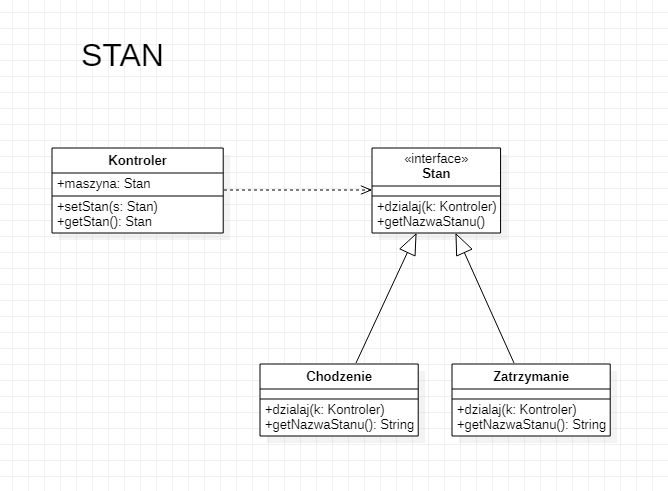
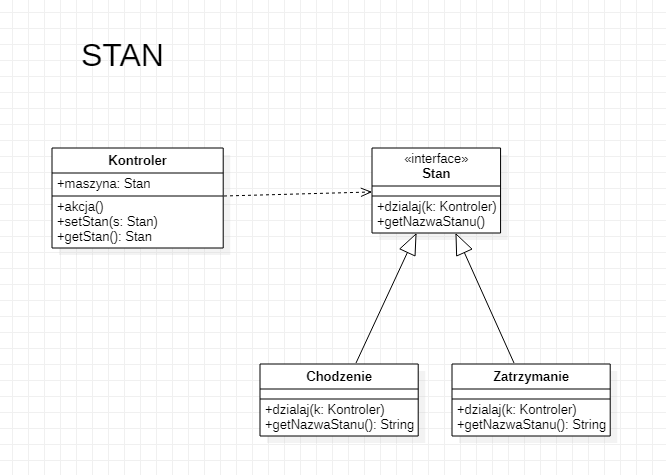
Stan

diff --git a/23 DAYS CHALLANGE WZORCOWY/Stan/Stan/src/Main.java b/23 DAYS CHALLANGE WZORCOWY/Stan/Stan/src/Main.java
@@ -3,14 +3,16 @@ public class Main {
         Kontroler kontroler = new Kontroler();
 
         Chodzenie chodzenie = new Chodzenie();
-        chodzenie.dzialaj(kontroler);
+        kontroler.setStan(chodzenie);
         System.out.println(kontroler.getStan().getNazwaStanu());
+        kontroler.akcja();
 
         System.out.println();
 
         Zatrzymanie zatrzymanie = new Zatrzymanie();
-        zatrzymanie.dzialaj(kontroler);
+        kontroler.setStan(zatrzymanie);
         System.out.println(kontroler.getStan().getNazwaStanu());
+        kontroler.akcja();
     }
 }
 

diff --git a/23 DAYS CHALLANGE WZORCOWY/Stan/Stan/src/Zatrzymanie.java b/23 DAYS CHALLANGE WZORCOWY/Stan/Stan/src/Zatrzymanie.java
@@ -1,7 +1,6 @@
 public class Zatrzymanie implements Stan {
-    public void dzialaj(Kontroler k) {
-        k.setStan(this);
-        System.out.println("Gracz jest w stanie: ZATRZYMANIE SIE");
+    public void dzialaj() {
+        System.out.println("Gracz sie zatrzymal, nic sie nie dzieje.");
     }
 
     public String getNazwaStanu() {

diff --git a/23 DAYS CHALLANGE WZORCOWY/Stan/Stan/src/Chodzenie.java b/23 DAYS CHALLANGE WZORCOWY/Stan/Stan/src/Chodzenie.java
@@ -1,7 +1,6 @@
 public class Chodzenie implements Stan {
-    public void dzialaj(Kontroler k) {
-        k.setStan(this);
-        System.out.println("Gracz jest w stanie: CHODZENIE");
+    public void dzialaj() {
+        System.out.println("Gracz idzie przed siebie!");
     }
 
     public String getNazwaStanu() {

diff --git a/23 DAYS CHALLANGE WZORCOWY/Stan/Stan/src/Kontroler.java b/23 DAYS CHALLANGE WZORCOWY/Stan/Stan/src/Kontroler.java
@@ -12,4 +12,8 @@ public class Kontroler {
     public Stan getStan() {
         return maszyna;
     }
+
+    public void akcja() {
+        maszyna.dzialaj();
+    }
 }

diff --git a/23 DAYS CHALLANGE WZORCOWY/Stan/Stan/src/Stan.java b/23 DAYS CHALLANGE WZORCOWY/Stan/Stan/src/Stan.java
@@ -1,4 +1,4 @@
 public interface Stan {
-    public void dzialaj(Kontroler k);
+    public void dzialaj();
     public String getNazwaStanu();
 }
